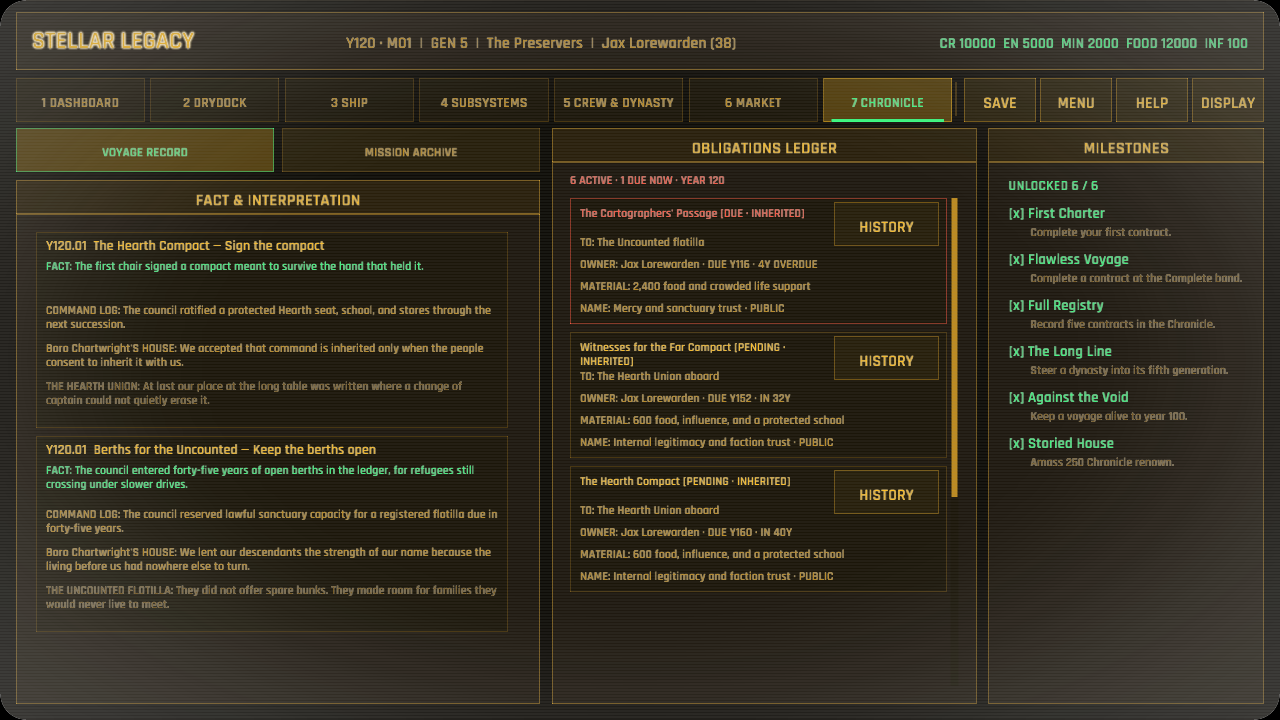
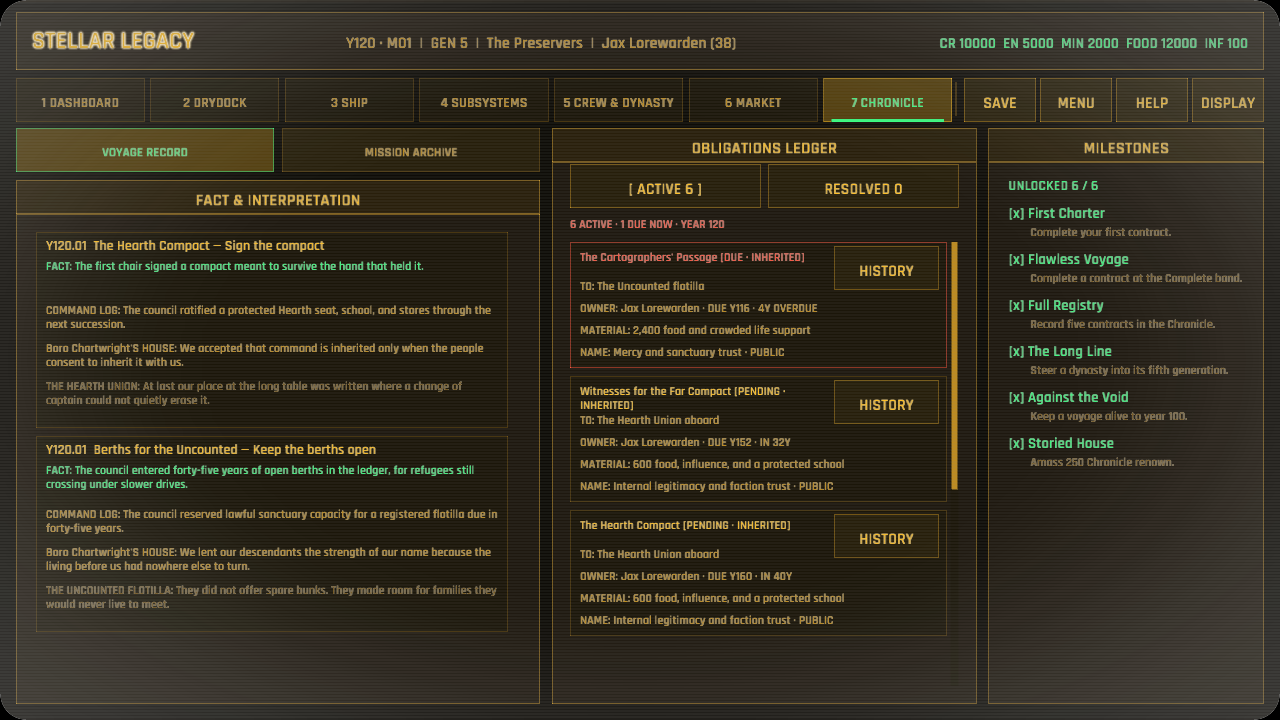
Kept and broken promises share one permanent shelf (resolved obligations archive)
Closing a duty removed it from the only ledger that could open its lifecycle history. The Chronicle now switches between 44-pixel Active and Resolved tabs, orders closed duties by latest resolution, summarizes kept and defaulted counts, marks breaches in alert red, and keeps every completed duty's HISTORY control available. The deterministic archive capture contains both a fulfilled and defaulted inherited promise, and the full publisher passes.

Changed region(s): [[0.4375, 0.2444, 0.75, 0.8861], [0.6562, 0.4889, 0.7188, 0.5806]]

diff --git a/src/ui/chronicle.rs b/src/ui/chronicle.rs
@@ -7,6 +7,7 @@ use macroquad_toolkit::prelude::*;
 use macroquad_toolkit::ui::{
     draw_ui_text_ex, is_fully_visible, note_neighbour, note_target, touch_area, RectExt,
 };
+use std::cmp::Reverse;
 
 /// Vertical stride of one Chronicle entry, and the height of the entry itself.
 const ENTRY_STRIDE: f32 = 46.0;
@@ -201,11 +202,59 @@ fn draw_obligations(
 ) {
     term_panel(area, Some("OBLIGATIONS LEDGER"));
     let content = area.inset(18.0);
-    let mut obligations: Vec<_> = ctx.sim.active_obligations().collect();
+    let show_resolved = ctx.obligation_resolved_tab.get();
+    let active_count = ctx.sim.active_obligations().count();
+    let resolved_count = ctx.sim.obligations.len() - active_count;
+    let tab_gap = 8.0;
+    let tab_w = (content.w - tab_gap) * 0.5;
+    for (index, (label, count)) in [("ACTIVE", active_count), ("RESOLVED", resolved_count)]
+        .into_iter()
+        .enumerate()
+    {
+        let selected = (index == 1) == show_resolved;
+        let tab = Rect::new(
+            content.x + index as f32 * (tab_w + tab_gap),
+            content.y + 18.0,
+            tab_w,
+            44.0,
+        );
+        if term_button(
+            tab,
+            &if selected {
+                format!("[ {label} {count} ]")
+            } else {
+                format!("{label} {count}")
+            },
+            true,
+            pointer,
+        ) && !selected
+        {
+            ctx.obligation_resolved_tab.set(index == 1);
+            ctx.obligations_scroll
+                .set(macroquad_toolkit::ui::ScrollArea::new());
+        }
+    }
+
+    let mut obligations: Vec<_> = ctx
+        .sim
+        .obligations
+        .iter()
+        .filter(|obligation| obligation.status.is_active() != show_resolved)
+        .collect();
     if obligations.is_empty() {
         draw_text_block(
-            "No active duties. Promises created by councils and charters will remain here until honoured, revised, defaulted, or voided.",
-            content.x, content.y + 38.0, content.w, 90.0, 13.0, 4.0, term::dim(),
+            if show_resolved {
+                "No resolved duties yet. Fulfilled, defaulted, and voided promises will remain here with their complete histories."
+            } else {
+                "No active duties. Promises created by councils and charters will remain here until honoured, revised, defaulted, or voided."
+            },
+            content.x,
+            content.y + 82.0,
+            content.w,
+            90.0,
+            13.0,
+            4.0,
+            term::dim(),
         );
         return;
     }
@@ -219,29 +268,68 @@ fn draw_obligations(
         .collect();
     let is_overdue =
         |obligation: &crate::state::sim::Obligation| overdue_ids.contains(&obligation.id.as_str());
-    obligations.sort_by_key(|obligation| {
-        (
-            !is_overdue(obligation),
-            obligation.due_year.unwrap_or(u32::MAX),
-            obligation.created_year,
-            obligation.id.as_str(),
-        )
-    });
+    if show_resolved {
+        obligations.sort_by_key(|obligation| {
+            Reverse((
+                obligation
+                    .history
+                    .last()
+                    .map_or(obligation.created_year, |entry| entry.year),
+                obligation.created_year,
+                obligation.id.as_str(),
+            ))
+        });
+    } else {
+        obligations.sort_by_key(|obligation| {
+            (
+                !is_overdue(obligation),
+                obligation.due_year.unwrap_or(u32::MAX),
+                obligation.created_year,
+                obligation.id.as_str(),
+            )
+        });
+    }
     let overdue_count = obligations
         .iter()
         .filter(|obligation| is_overdue(obligation))
         .count();
+    let (status_summary, summary_warning) = if show_resolved {
+        let fulfilled = obligations
+            .iter()
+            .filter(|obligation| {
+                obligation.status == crate::state::sim::ObligationStatus::Fulfilled
+            })
+            .count();
+        let defaulted = obligations
+            .iter()
+            .filter(|obligation| {
+                obligation.status == crate::state::sim::ObligationStatus::Defaulted
+            })
+            .count();
+        (
+            format!(
+                "{} RESOLVED · {fulfilled} KEPT · {defaulted} DEFAULTED",
+                obligations.len()
+            ),
+            defaulted > 0,
+        )
+    } else {
+        (
+            format!(
+                "{} ACTIVE · {} DUE NOW · YEAR {year:03}",
+                obligations.len(),
+                overdue_count
+            ),
+            overdue_count > 0,
+        )
+    };
     draw_ui_text_ex(
-        &format!(
-            "{} ACTIVE · {} DUE NOW · YEAR {year:03}",
-            obligations.len(),
-            overdue_count
-        ),
+        &status_summary,
         content.x,
-        content.y + 38.0,
+        content.y + 82.0,
         TextStyle::new(
             12.0,
-            if overdue_count > 0 {
+            if summary_warning {
                 term::alert()
             } else {
                 term::accent()
@@ -254,9 +342,9 @@ fn draw_obligations(
     const ROW_GAP: f32 = 8.0;
     let view = Rect::new(
         content.x,
-        content.y + 52.0,
+        content.y + 96.0,
         content.w,
-        content.bottom() - content.y - 52.0,
+        content.bottom() - content.y - 96.0,
     );
     let content_h = obligations.len() as f32 * (ROW_H + ROW_GAP) - ROW_GAP;
     let mut scroll = ctx.obligations_scroll.get();
@@ -282,16 +370,24 @@ fn draw_obligations(
                 term::faint()
             },
         );
-        let due = obligation
-            .due_year
-            .map(|due_year| {
-                if due_year <= year {
-                    format!("Y{due_year:03} · {}Y OVERDUE", year - due_year)
-                } else {
-                    format!("Y{due_year:03} · IN {}Y", due_year - year)
-                }
-            })
-            .unwrap_or_else(|| "OPEN".to_owned());
+        let timing = if show_resolved {
+            let closed = obligation
+                .history
+                .last()
+                .map_or(obligation.created_year, |entry| entry.year);
+            format!("CLOSED Y{closed:03}")
+        } else {
+            obligation
+                .due_year
+                .map(|due_year| {
+                    if due_year <= year {
+                        format!("DUE Y{due_year:03} · {}Y OVERDUE", year - due_year)
+                    } else {
+                        format!("DUE Y{due_year:03} · IN {}Y", due_year - year)
+                    }
+                })
+                .unwrap_or_else(|| "DUE OPEN".to_owned())
+        };
         let inherited = if obligation.successions_crossed > 0 {
             " · INHERITED"
         } else {
@@ -331,7 +427,7 @@ fn draw_obligations(
         let mut line_y = row.y + 36.0;
         for line in [
             format!("TO: {}", obligation.beneficiary),
-            format!("OWNER: {} · DUE {due}", obligation.responsible),
+            format!("OWNER: {} · {timing}", obligation.responsible),
             format!("MATERIAL: {}", obligation.stakes.material),
             format!(
                 "NAME: {} · {}",

diff --git a/src/game/capture_scenes.rs b/src/game/capture_scenes.rs
@@ -19,6 +19,7 @@ impl Game {
         self.capture_run_secs = None;
         self.custody_picker = None;
         self.obligation_detail = None;
+        self.obligation_resolved_tab.set(false);
         self.boot.finish();
         // The first-run welcome overlay would otherwise sit over every menu
         // scene; scenes opt into it explicitly (the "welcome" scene below).
@@ -440,7 +441,7 @@ impl Game {
                 });
                 self.state = crate::state::GameState::Gameplay(Box::new(GameplayState::new(sim)));
             }
-            "chronicle" | "obligation_history" => {
+            "chronicle" | "obligation_history" | "obligation_archive" => {
                 // Seed a storied Chronicle and unlock the matching milestones.
                 self.achievements =
                     Achievements::from_definitions(crate::achievements::definitions());
@@ -493,6 +494,21 @@ impl Game {
                     }
                     sim.dynasty.begin_reign(sim.year());
                     sim.inherit_obligations();
+                }
+                if scene == "obligation_archive" {
+                    sim.apply_obligation_operation(
+                        &crate::state::sim::ObligationOperation::Fulfil {
+                            authored_id: "sanctuary_berths".to_owned(),
+                            note: "Every promised family crossed the ramp.".to_owned(),
+                        },
+                    );
+                    sim.apply_obligation_operation(
+                        &crate::state::sim::ObligationOperation::Default {
+                            authored_id: "station_aid".to_owned(),
+                            note: "The promised return survey was abandoned.".to_owned(),
+                        },
+                    );
+                    self.obligation_resolved_tab.set(true);
                 }
                 // More entries than the panel can hold, so the capture shows the
                 // state the log's scroll exists for rather than a short list that

diff --git a/src/game.rs b/src/game.rs
@@ -146,6 +146,8 @@ pub struct Game {
     /// Smooth-scroll state for active duties. Obligations accumulate independently
     /// of the record/archive sub-tab and must remain reachable on long voyages.
     obligations_scroll: Cell<ScrollArea>,
+    /// Obligation ledger sub-tab: active duties or resolved archive.
+    obligation_resolved_tab: Cell<bool>,
     /// Scroll state inside the selected obligation's history overlay.
     obligation_history_scroll: Cell<ScrollArea>,
     /// Smooth-scroll state for the homecoming debrief's chain-of-command list:
@@ -241,6 +243,7 @@ impl Game {
             chronicle_scroll: Cell::new(ScrollArea::new()),
             chronicle_records_tab: Cell::new(true),
             obligations_scroll: Cell::new(ScrollArea::new()),
+            obligation_resolved_tab: Cell::new(false),
             obligation_history_scroll: Cell::new(ScrollArea::new()),
             debrief_commanders_scroll: Cell::new(ScrollArea::new()),
             debrief_log_scroll: Cell::new(ScrollArea::new()),
@@ -518,6 +521,7 @@ impl Game {
                     chronicle_scroll: &self.chronicle_scroll,
                     chronicle_records_tab: &self.chronicle_records_tab,
                     obligations_scroll: &self.obligations_scroll,
+                    obligation_resolved_tab: &self.obligation_resolved_tab,
                     obligation_history_scroll: &self.obligation_history_scroll,
                     debrief_commanders_scroll: &self.debrief_commanders_scroll,
                     debrief_log_scroll: &self.debrief_log_scroll,

diff --git a/src/ui/shell.rs b/src/ui/shell.rs
@@ -51,6 +51,8 @@ pub struct GameplayCtx<'a> {
     pub chronicle_records_tab: &'a std::cell::Cell<bool>,
     /// Smooth-scroll state for the active obligations ledger.
     pub obligations_scroll: &'a std::cell::Cell<macroquad_toolkit::ui::ScrollArea>,
+    /// Obligation ledger sub-tab: `false` active, `true` resolved.
+    pub obligation_resolved_tab: &'a std::cell::Cell<bool>,
     /// Smooth-scroll state for the selected obligation's history.
     pub obligation_history_scroll: &'a std::cell::Cell<macroquad_toolkit::ui::ScrollArea>,
     /// Smooth-scroll state for the homecoming debrief's chain-of-command list —
